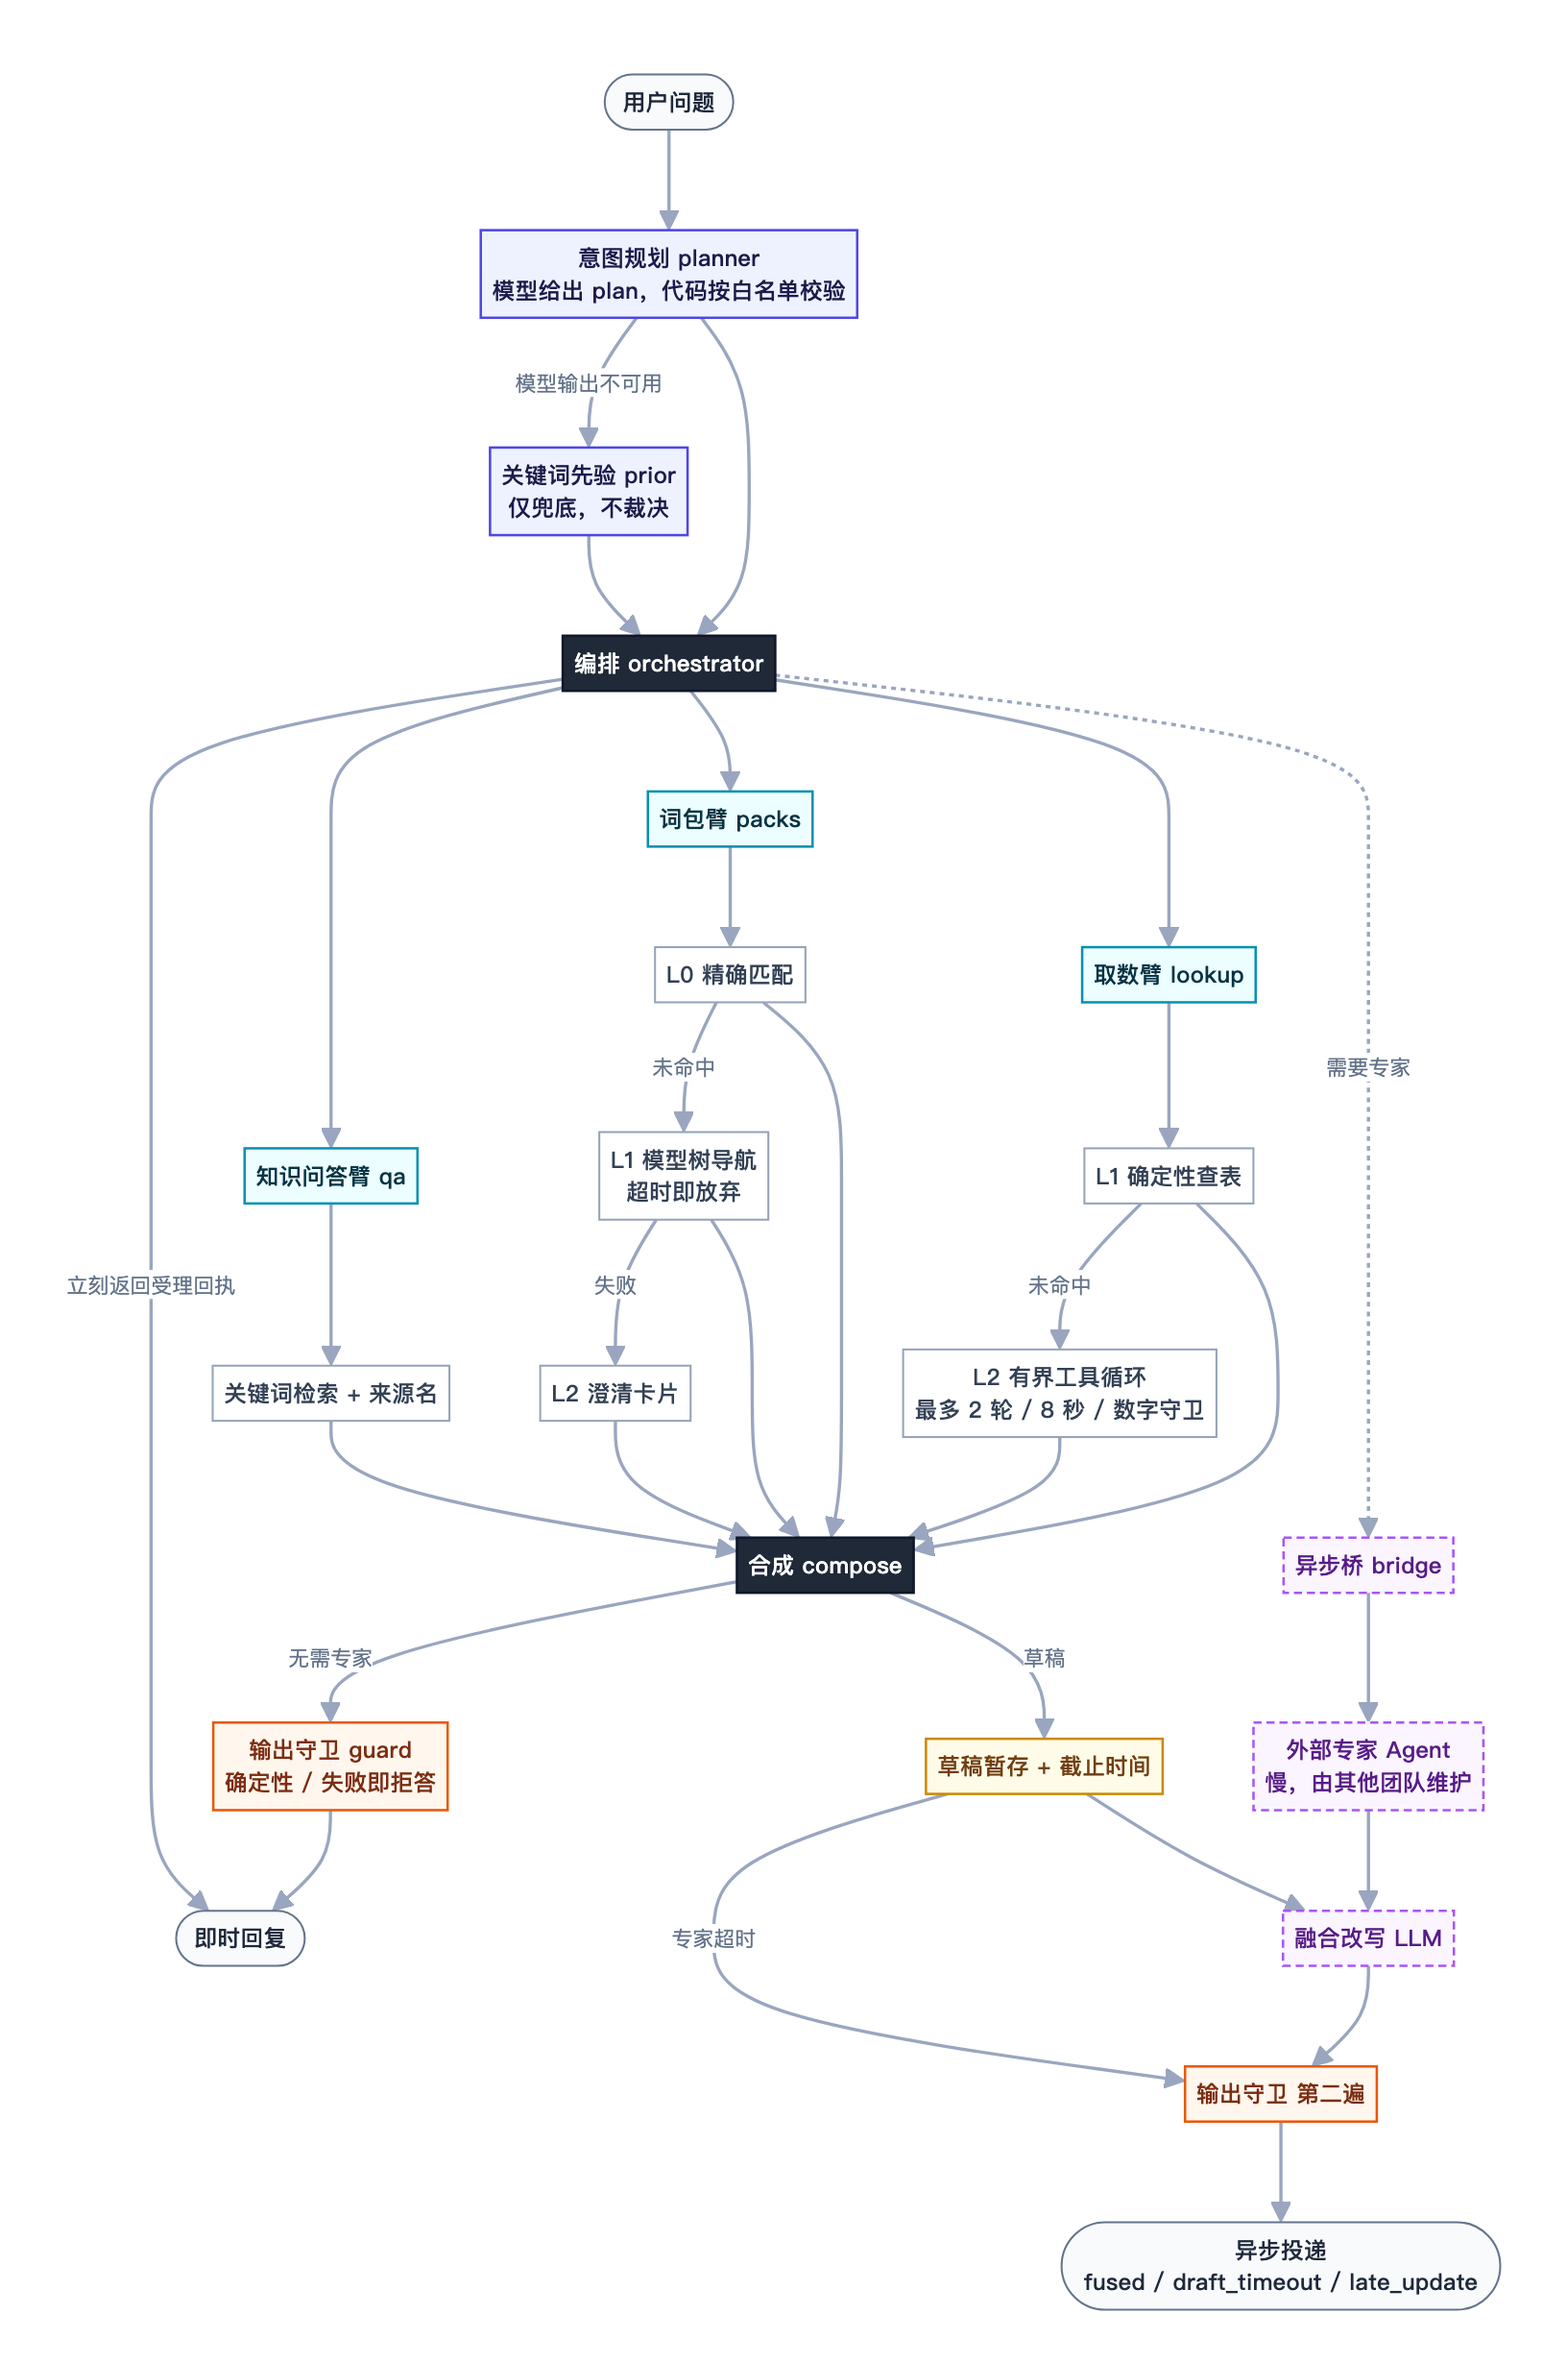
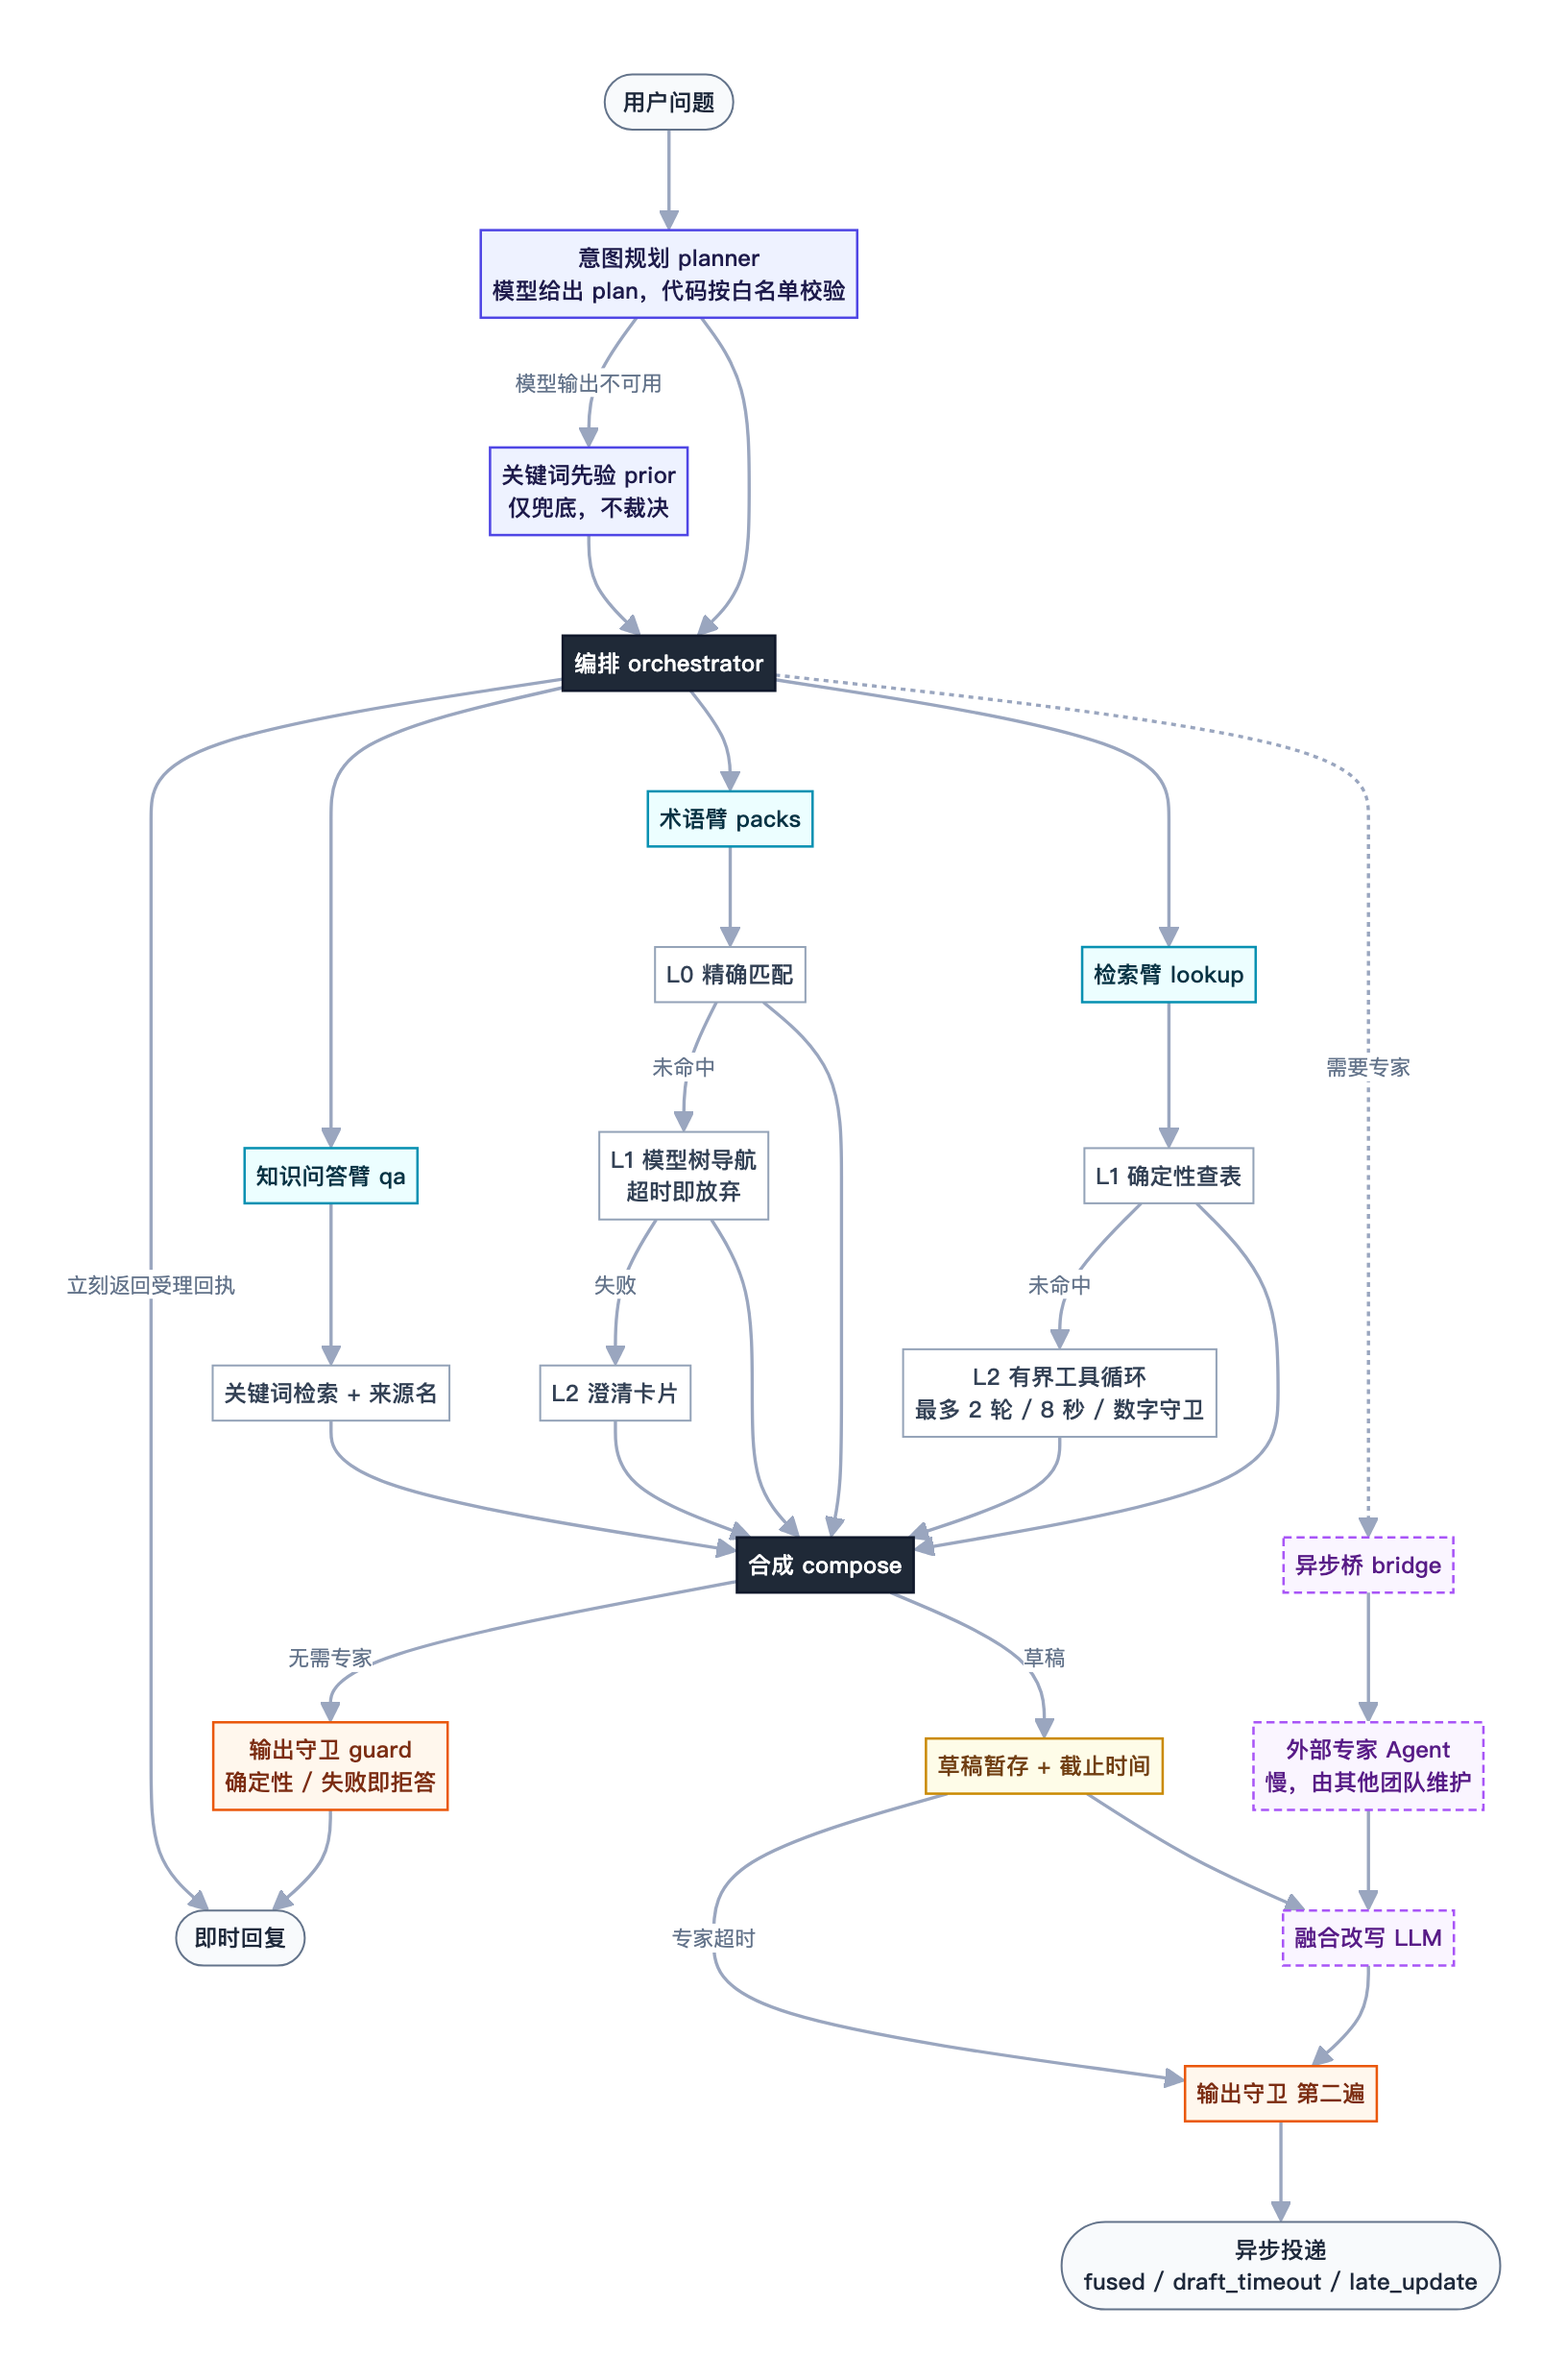
Desensitize diagram arm names
- 取数臂 → 检索臂，词包臂 → 术语臂（同步 product.md 措辞）
- PNG 由 docs/architecture.md 源码重新导出，与 Mermaid 保持一致

diff --git a/docs/product.md b/docs/product.md
@@ -16,7 +16,7 @@
 | 能力 | 用户看到的效果 |
 |---|---|
 | 查基准 | 直接给出表格，注明数据周期，不展示内部权重 |
-| 词包 | 给出对应类目的关键词清单；类目不明确时给出可选项，让用户点选 |
+| 术语清单 | 给出对应类目的术语清单；类目不明确时给出可选项，让用户点选 |
 | 知识问答 | 给出规则原文，并列出来源文件 |
 | 策略咨询 | 先收到受理回执和编号，稍后收到一条整合后的回复 |
 | 安全兜底 | 触及不可披露的数据时给出固定的拒答，不给残缺答案 |
@@ -33,7 +33,7 @@
 | 指标 | 含义 |
 |---|---|
 | 各层命中率（L0/L1/L2） | 确定性路径占比越高，成本与延迟越低 |
-| 澄清率 | 过高说明词包树或意图描述需要补充 |
+| 澄清率 | 过高说明术语树或意图描述需要补充 |
 | 守卫触发率与拒答率 | 过高说明规则过严或上游数据有问题 |
 | 草稿超时发送率 | 反映外部专家的可用性 |
 | 补充更新率 | 反映草稿超时设置是否合理 |

diff --git a/docs/architecture.md b/docs/architecture.md
@@ -15,8 +15,8 @@ flowchart TD
     P --> O[编排 orchestrator]
     K --> O
 
-    O --> L[取数臂 lookup]
-    O --> W[词包臂 packs]
+    O --> L[检索臂 lookup]
+    O --> W[术语臂 packs]
     O --> Q[知识问答臂 qa]
     O -.需要专家.-> B[异步桥 bridge]
 
